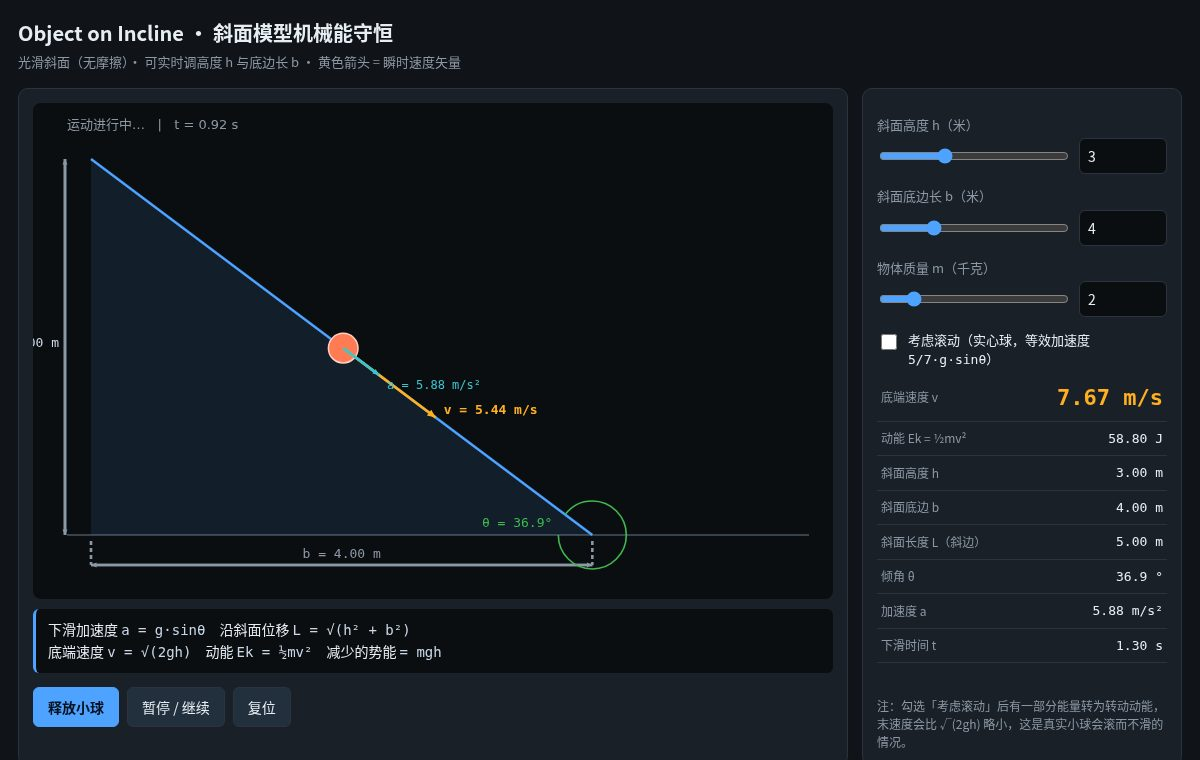
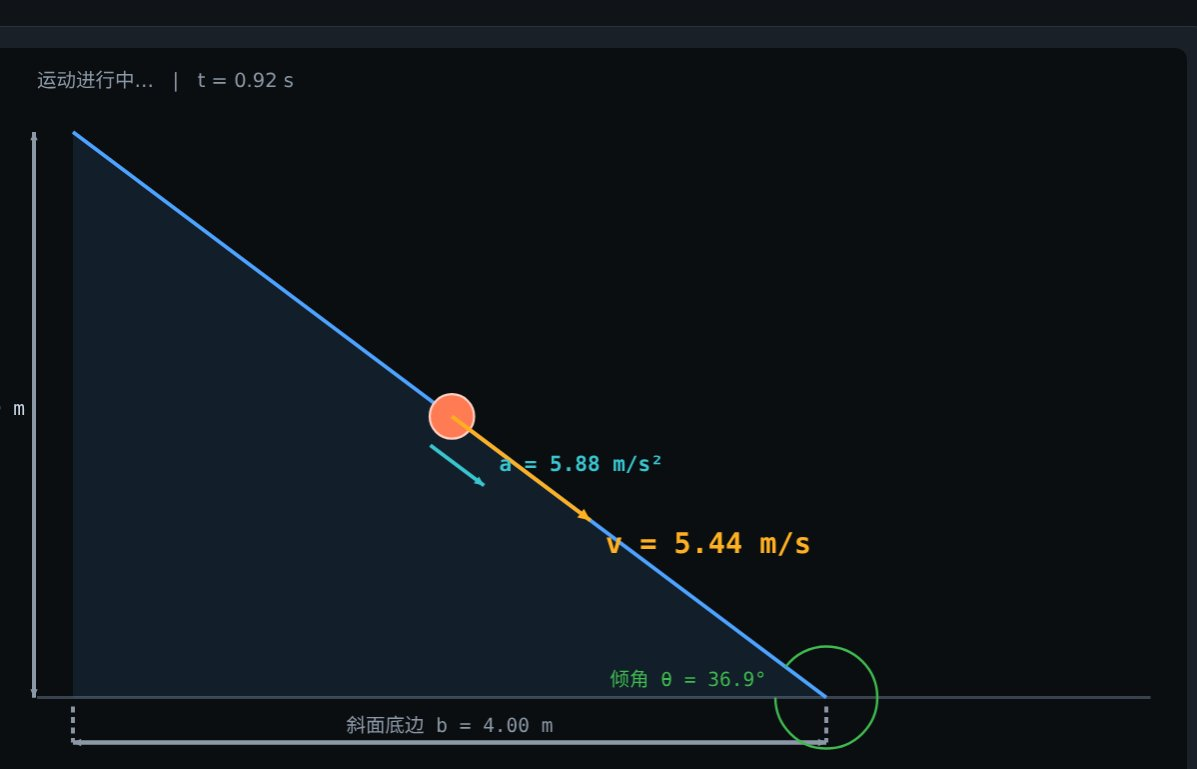
模拟器新增中英切换；速度标注加大；加速度与速度矢量错位显示

Changed region(s): [[0.0, 0.0303, 0.9891, 0.9987]]

diff --git a/incline-energy.html b/incline-energy.html
@@ -49,21 +49,32 @@
   table.data th:first-child,table.data td:first-child{text-align:left}
   .err{color:var(--warn);font-size:12px;margin-top:8px;min-height:16px}
   .note{color:var(--dim);font-size:12px;margin-top:10px}
+  .topbar{display:flex;align-items:center;gap:14px;margin-bottom:6px}
+  .lang{margin-left:auto;display:inline-flex;border:1px solid var(--line);border-radius:999px;
+    overflow:hidden;background:#0b0e11;flex:none}
+  .lang button{border:0;background:transparent;color:var(--dim);padding:7px 15px;font-size:13px;
+    border-radius:0;cursor:pointer;font-family:inherit}
+  .lang button.on{background:var(--acc);color:#04121f;font-weight:600}
 </style>
 </head>
 <body>
 <div class="wrap">
-  <h1>Object on Incline · 斜面模型机械能守恒</h1>
-  <div class="sub">光滑斜面（无摩擦）· 可实时调高度 h 与底边长 b · 黄色箭头 = 瞬时速度矢量</div>
+  <div class="topbar">
+    <div>
+      <h1>Object on Incline · 斜面模型机械能守恒</h1>
+      <div class="sub">光滑斜面（无摩擦）· 可实时调高度 h 与底边长 b · 黄色箭头 = 瞬时速度矢量</div>
+    </div>
+    <div class="lang" id="langSwitch">
+      <button id="langZh" onclick="setLang('zh')">中文</button>
+      <button id="langEn" onclick="setLang('en')">EN</button>
+    </div>
+  </div>
 
   <div class="grid">
     <!-- ===== 画布 ===== -->
     <div class="card">
       <canvas id="cv" width="760" height="470"></canvas>
-      <div class="formula">
-        下滑加速度 <code>a = g·sinθ</code>　沿斜面位移 <code>L = √(h² + b²)</code><br>
-        底端速度 <code>v = √(2gh)</code>　动能 <code>Ek = ½mv²</code>　减少的势能 <code>= mgh</code>
-      </div>
+      <div class="formula" id="formulaBox"></div>
       <div class="btns">
         <button class="pri" id="btnRelease">释放小球</button>
         <button id="btnPause">暂停 / 继续</button>
@@ -130,18 +141,142 @@
     <table class="data" style="margin-top:10px">
       <thead>
         <tr><th>高度 h</th><th>底边 b</th><th>倾角 θ</th><th>加速度 a</th>
-            <th>理论 v=√(2gh)</th><th>模拟 v（数值积分）</th><th>偏差</th></tr>
+            <th>理论 v=√&#40;2gh)</th><th>模拟 v（数值积分）</th><th>偏差</th></tr>
       </thead>
       <tbody id="tbody"></tbody>
     </table>
-    <div class="note">
-      伽利略的结论：同一高度、不同倾角，末速度相同；但倾角越陡用时越短。
-      「模拟」列是用 a = g·sinθ 做数值积分跑出来的结果，与理论公式对得上即证明模型正确。
-    </div>
+    <div class="note" id="noteBox"></div>
   </div>
 </div>
 
 <script>
+/* ============================================================
+   语言切换：双语字典 + 静态文本节点自动采集
+   原理：启动时扫描 body 里所有文本节点存下原文；切英文时按字典替换。
+   以后新增中文文案会被自动登记，无需改代码结构，只要补 DICT。
+   ============================================================ */
+const DICT = {
+  'Object on Incline · 斜面模型机械能守恒':'Object on Incline \u00b7 Mechanical Energy Conservation',
+  '光滑斜面（无摩擦）· 可实时调高度 h 与底边长 b · 黄色箭头 = 瞬时速度矢量':
+    'Frictionless incline \u00b7 adjust height h and base b live \u00b7 yellow arrow = instantaneous velocity',
+  '斜面高度 h（米）':'Incline height h (m)',
+  '斜面底边长 b（米）':'Incline base b (m)',
+  '物体质量 m（千克）':'Mass m (kg)',
+  '考虑滚动（实心球，等效加速度':'Rolling (solid sphere, effective acceleration',
+  '释放小球':'Release',
+  '暂停 / 继续':'Pause / Resume',
+  '复位':'Reset',
+  /* --- 右侧读数表第一列（必须与 HTML 里的文本一字不差）--- */
+  '底端速度 v':'Speed at bottom v',
+  '动能 Ek = ½mv²':'Kinetic energy Ek = \u00bdmv\u00b2',
+  '斜面高度 h':'Incline height h',
+  '斜面底边 b':'Incline base b',
+  '斜面长度 L（斜边）':'Slope length L (hypotenuse)',
+  '下滑时间 t':'Travel time t',
+  '实时读数（小球运动过程中）':'Live readings (during motion)',
+  '物理量':'Quantity',
+  '当前值':'Current',
+  '底端时':'At bottom',
+  '已下滑距离 s':'Distance travelled s',
+  '剩余高度 Δh':'Remaining height \u0394h',
+  '速度 v':'Speed v',
+  '减少的重力势能 mgΔh':'Lost GPE mg\u0394h',
+  '机械能合计 Ek + 剩余Ep':'Total energy Ek + PE',
+  '最右两列若始终相等（Ek 增加量 = Ep 减少量），即验证了机械能守恒。':
+    'If the last two columns stay equal (gain in Ek = loss in PE), mechanical energy is conserved.',
+  '核心验证：末速度只取决于高度，与倾角无关':'Key check: final speed depends only on height, not on angle',
+  '高度 h':'Height h',
+  '底边 b':'Base b',
+  '倾角 θ':'Angle \u03b8',
+  '加速度 a':'Acceleration a',
+  '理论 v=√(2gh)':'Theory v=\u221a(2gh)',
+  '模拟 v（数值积分）':'Simulated v (integration)',
+  '偏差':'Deviation',
+
+  '注：勾选「考虑滚动」后有一部分能量转为转动动能，末速度会比 √(2gh) 略小，这是真实小球会滚而不滑的情况。':
+    'Note: with rolling enabled some energy becomes rotational kinetic energy, so the final speed falls slightly below \u221a(2gh) \u2014 as a real ball rolls rather than slides.',
+  '很缓':'Very gentle',
+  '中等':'Moderate',
+  '45°附近':'Near 45\u00b0',
+  '较陡':'Steep',
+  '很陡':'Very steep',
+  '当前理论末速度 √(2gh) =':'Theoretical final speed \u221a(2gh) =',
+  /* 底部说明整块双语（两句话，含标签/换行，不走文本节点扫描）*/
+  '当前数值积分结果 =':'Numeric-integration result =',
+
+};
+
+/* 公式框整块双语：含 <code> 标签，不适合走文本节点扫描 */
+const NOTE_TEXT = {
+  zh: '伽利略的结论：同一高度、不同倾角，末速度相同；但倾角越陡用时越短。 '
+    + '「模拟」列是用 a = g·sinθ 做数值积分跑出来的结果，与理论公式对得上即证明模型正确。',
+  en: "Galileo's result: at the same height the final speed is the same for every angle; a steeper slope simply takes less time. "
+    + 'The "Simulated" column comes from numerically integrating a = g\u00b7sin\u03b8; agreement with the formula validates the model.',
+};
+const FORMULA = {
+  zh: '下滑加速度 <code>a = g·sinθ</code>　沿斜面位移 <code>L = √(h² + b²)</code><br>'
+    + '底端速度 <code>v = √(2gh)</code>　动能 <code>Ek = ½mv²</code>　减少的势能 <code>= mgh</code>',
+  en: 'Acceleration <code>a = g\u00b7sin\u03b8</code> \u00b7 Distance along slope <code>L = \u221a(h\u00b2 + b\u00b2)</code><br>'
+    + 'Speed at bottom <code>v = \u221a(2gh)</code> \u00b7 Kinetic energy <code>Ek = \u00bdmv\u00b2</code> \u00b7 Lost PE <code>= mgh</code>',
+};
+
+/* 画布/动态文字专用字典：这部分不在 DOM 里，扫不到，必须显式登记 */
+const CANVAS_TXT = {
+  '静止待释放':'At rest \u2014 ready to release',
+  '运动进行中…':'Running\u2026',
+  '已到达底端':'Reached the bottom',
+  '斜面高度':'Incline height',
+  '斜面底边':'Incline base',
+  '倾角':'Angle',
+};
+
+let LANG = 'zh';
+try{ LANG = localStorage.getItem('incline-lang') || 'zh'; }catch(e){}
+const T = (zh,en) => LANG==='en' ? en : zh;
+
+/* 扫描文本节点：存原文，切语言时按字典替换 */
+const PHRASES = new Map();
+const NODES = [];
+function collect(){
+  const w = document.createTreeWalker(document.body, NodeFilter.SHOW_TEXT);
+  let n;
+  while((n = w.nextNode())){
+    const raw = n.nodeValue;
+    if(!raw.trim()) continue;
+    if(n.parentNode && /^(script|style)$/i.test(n.parentNode.tagName)) continue;
+    NODES.push([n, raw]);
+    const k = raw.trim();
+    if(!PHRASES.has(k)) PHRASES.set(k, DICT[k] || '');
+  }
+}
+function tr(s){ const t = (LANG==='en' && CANVAS_TXT[s]) || (LANG==='en' && DICT[s]); return t || s; }
+
+function applyLang(){
+  for(const [node, raw] of NODES){
+    if(LANG === 'zh'){ node.nodeValue = raw; continue; }
+    const k = raw.trim(), en = PHRASES.get(k);
+    if(en){
+      const lead = raw.match(/^\s*/)[0], tail = raw.match(/\s*$/)[0];
+      node.nodeValue = lead + en + tail;
+    }
+  }
+  document.getElementById('formulaBox').innerHTML = FORMULA[LANG];
+  document.getElementById('noteBox').textContent = NOTE_TEXT[LANG];
+  document.documentElement.lang = LANG==='en' ? 'en' : 'zh-CN';
+  document.title = LANG==='en'
+    ? 'Object on Incline \u00b7 Mechanical Energy Conservation'
+    : 'Object on Incline \u00b7 斜面模型机械能守恒';
+  document.getElementById('langZh').classList.toggle('on', LANG==='zh');
+  document.getElementById('langEn').classList.toggle('on', LANG==='en');
+  draw(); readouts(); buildTable();
+}
+function setLang(l){
+  if(LANG === l) return;
+  LANG = l;
+  try{ localStorage.setItem('incline-lang', l); }catch(e){}
+  applyLang();
+}
+
 /* ============================================================
    物理模型（光滑斜面，无摩擦）
    θ = atan(h/b)          倾角
@@ -223,7 +358,7 @@ function draw(){
   arrow(ctx,hx,g.groundY,hx,g.top.y,'#8b98a5',6);
   ctx.fillStyle='#c9d7e6'; ctx.font='13px ui-monospace,Consolas,monospace';
   ctx.textAlign='right';
-  ctx.fillText('h = '+state.h.toFixed(2)+' m', hx-6, (g.top.y+g.groundY)/2);
+  ctx.fillText(T('斜面高度','Incline height')+' h = '+state.h.toFixed(2)+' m', hx-6, (g.top.y+g.groundY)/2);
 
   // 底边标注
   const by = g.groundY + 30;
@@ -234,7 +369,7 @@ function draw(){
   arrow(ctx,g.top.x,by,g.br.x,by,'#8b98a5',6);
   arrow(ctx,g.br.x,by,g.top.x,by,'#8b98a5',6);
   ctx.textAlign='center';
-  ctx.fillText('b = '+state.b.toFixed(2)+' m', (g.top.x+g.br.x)/2, by-7);
+  ctx.fillText(T('斜面底边','Incline base')+' b = '+state.b.toFixed(2)+' m', (g.top.x+g.br.x)/2, by-7);
 
   // 倾角 θ
   const deg = d.th*180/Math.PI;
@@ -243,33 +378,42 @@ function draw(){
   ctx.arc(g.br.x,g.groundY, 34, Math.PI, Math.PI + d.th, true);
   ctx.stroke();
   ctx.fillStyle='#3fb950'; ctx.textAlign='right';
-  ctx.fillText('θ = '+deg.toFixed(1)+'°', g.br.x-40, g.groundY-8);
+  ctx.fillText(T('倾角','Angle')+' θ = '+deg.toFixed(1)+'°', g.br.x-40, g.groundY-8);
 
   // 小球
   const r = 6 + Math.cbrt(state.m)*7;
   ctx.fillStyle='#ff7b54'; ctx.strokeStyle='#ffd0c2'; ctx.lineWidth=1.5;
   ctx.beginPath(); ctx.arc(p.x,p.y,r,0,Math.PI*2); ctx.fill(); ctx.stroke();
 
-  // 速度矢量（沿斜面向下）
+  // 速度矢量（沿斜面向下）与加速度矢量：两者错开，不叠在一起
   if(state.v > 0.01){
     const ux = Math.cos(d.th), uy = Math.sin(d.th);           // 沿斜面向下的单位向量
-    const len = 34 + state.v * 15;                            // 长度随速度增长
+    const nx = -uy, ny = ux;                                  // 法向（指向斜面下方一侧）
+    const off = 24;                                           // 加速度箭头的错位距离
+
+    // 速度矢量：从球心出发，黄色，标注字号加大
+    const len = 34 + state.v * 15;
     const x2 = p.x + ux*len, y2 = p.y + uy*len;
     arrow(ctx,p.x,p.y,x2,y2,'#ffb020',9);
-    ctx.fillStyle='#ffb020'; ctx.font='bold 13px ui-monospace,Consolas,monospace';
+    ctx.fillStyle='#ffb020'; ctx.font='bold 19px ui-monospace,Consolas,monospace';
     ctx.textAlign='left';
-    ctx.fillText('v = '+state.v.toFixed(2)+' m/s', x2+8, y2-4);
+    ctx.fillText('v = '+state.v.toFixed(2)+' m/s', x2+10, y2+22);
 
-    // 加速度矢量（青色，较短）
-    const al = 26 + d.a*3.2;
-    arrow(ctx,p.x,p.y,p.x+ux*al,p.y+uy*al,'#39c5cf',7);
-    ctx.fillStyle='#39c5cf'; ctx.font='12px ui-monospace,Consolas,monospace';
-    ctx.fillText('a = '+d.a.toFixed(2)+' m/s²', p.x+ux*al+8, p.y+uy*al+14);
+    // 加速度矢量：起点沿法向偏移，青色，标注在箭头另一侧
+    const ax1 = p.x + nx*off, ay1 = p.y + ny*off;
+    const al  = 26 + d.a*3.2;
+    const ax2 = ax1 + ux*al,  ay2 = ay1 + uy*al;
+    arrow(ctx,ax1,ay1,ax2,ay2,'#39c5cf',7);
+    ctx.fillStyle='#39c5cf'; ctx.font='bold 14px ui-monospace,Consolas,monospace';
+    ctx.textAlign='left';
+    ctx.fillText('a = '+d.a.toFixed(2)+' m/s\u00b2', ax2+10, ay2-10);
   }
 
   // 标题栏读数
   ctx.fillStyle='#8b98a5'; ctx.font='13px system-ui,sans-serif'; ctx.textAlign='left';
-  const st = state.done ? '已到达底端' : (state.running ? '运动进行中…' : '静止待释放');
+  const st = state.done ? tr('已到达底端')
+             : state.running ? tr('运动进行中…')
+             : tr('静止待释放');
   ctx.fillText(st + '   |   t = ' + simTime.toFixed(2) + ' s', g.padL-24, 26);
 }
 
@@ -356,11 +500,11 @@ function simulate(h,b,roll){
 function buildTable(){
   const h = state.h, roll = state.roll;
   const rows = [
-    ['很缓', h, h*3.0],
-    ['中等', h, h*1.6],
-    ['45°附近', h, h],
-    ['较陡', h, h*0.55],
-    ['很陡', h, h*0.25],
+    [tr('很缓'), h, h*3.0],
+    [tr('中等'), h, h*1.6],
+    [tr('45°附近'), h, h],
+    [tr('较陡'), h, h*0.55],
+    [tr('很陡'), h, h*0.25],
   ];
   let html='';
   for(const [name,hh,bb] of rows){
@@ -376,8 +520,8 @@ function buildTable(){
 
   const vCur = state.roll ? Math.sqrt(2*(5/7)*G*h) : Math.sqrt(2*G*h);
   const cur  = simulate(h, state.b, roll);
-  document.getElementById('thTag').textContent  = '当前理论末速度 √(2gh) = '+vCur.toFixed(3)+' m/s';
-  document.getElementById('simTag').textContent = '当前数值积分结果 = '+cur.vSim.toFixed(3)+' m/s';
+  document.getElementById('thTag').textContent  = tr('当前理论末速度 √(2gh) =')+vCur.toFixed(3)+' m/s';
+  document.getElementById('simTag').textContent = tr('当前数值积分结果 =')+cur.vSim.toFixed(3)+' m/s';
 }
 
 /* ---------- 控件绑定：滑块与数字框双向联动 ---------- */
@@ -386,7 +530,8 @@ function bind(rangeId, numId, key, min, max){
   const err=document.getElementById('err');
   const apply=(val)=>{
     if(!Number.isFinite(val) || val<min || val>max){
-      err.textContent = '请输入 '+min+' ~ '+max+' 之间的数值'; return;
+      err.textContent = LANG==='en' ? ('Enter a value between '+min+' and '+max)
+                                    : ('请输入 '+min+' ~ '+max+' 之间的数值'); return;
     }
     err.textContent='';
     state[key]=val; r.value=val; n.value=val;
@@ -425,7 +570,7 @@ function resize(){
 window.addEventListener('resize', resize);
 
 /* ---------- 启动 ---------- */
-buildTable(); readouts(); resize(); requestAnimationFrame(loop);
+collect(); applyLang(); buildTable(); readouts(); resize(); requestAnimationFrame(loop);
 </script>
 </body>
 </html>
